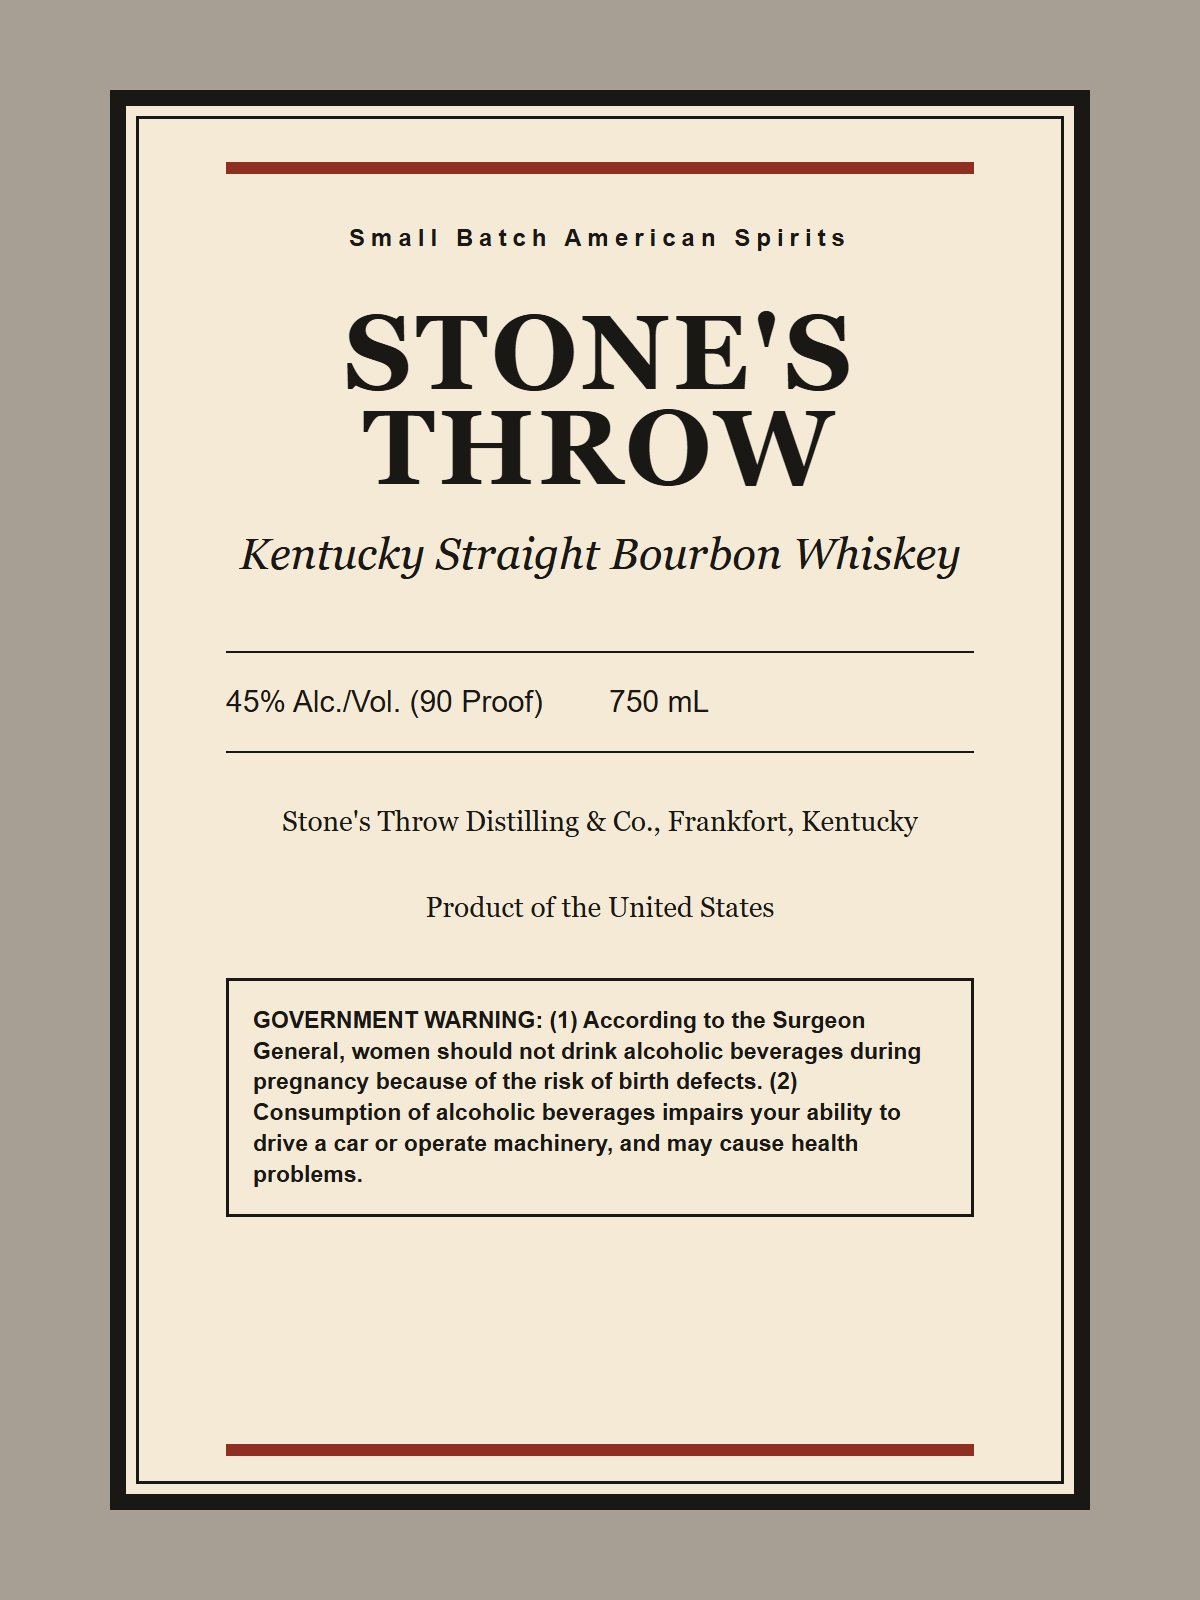
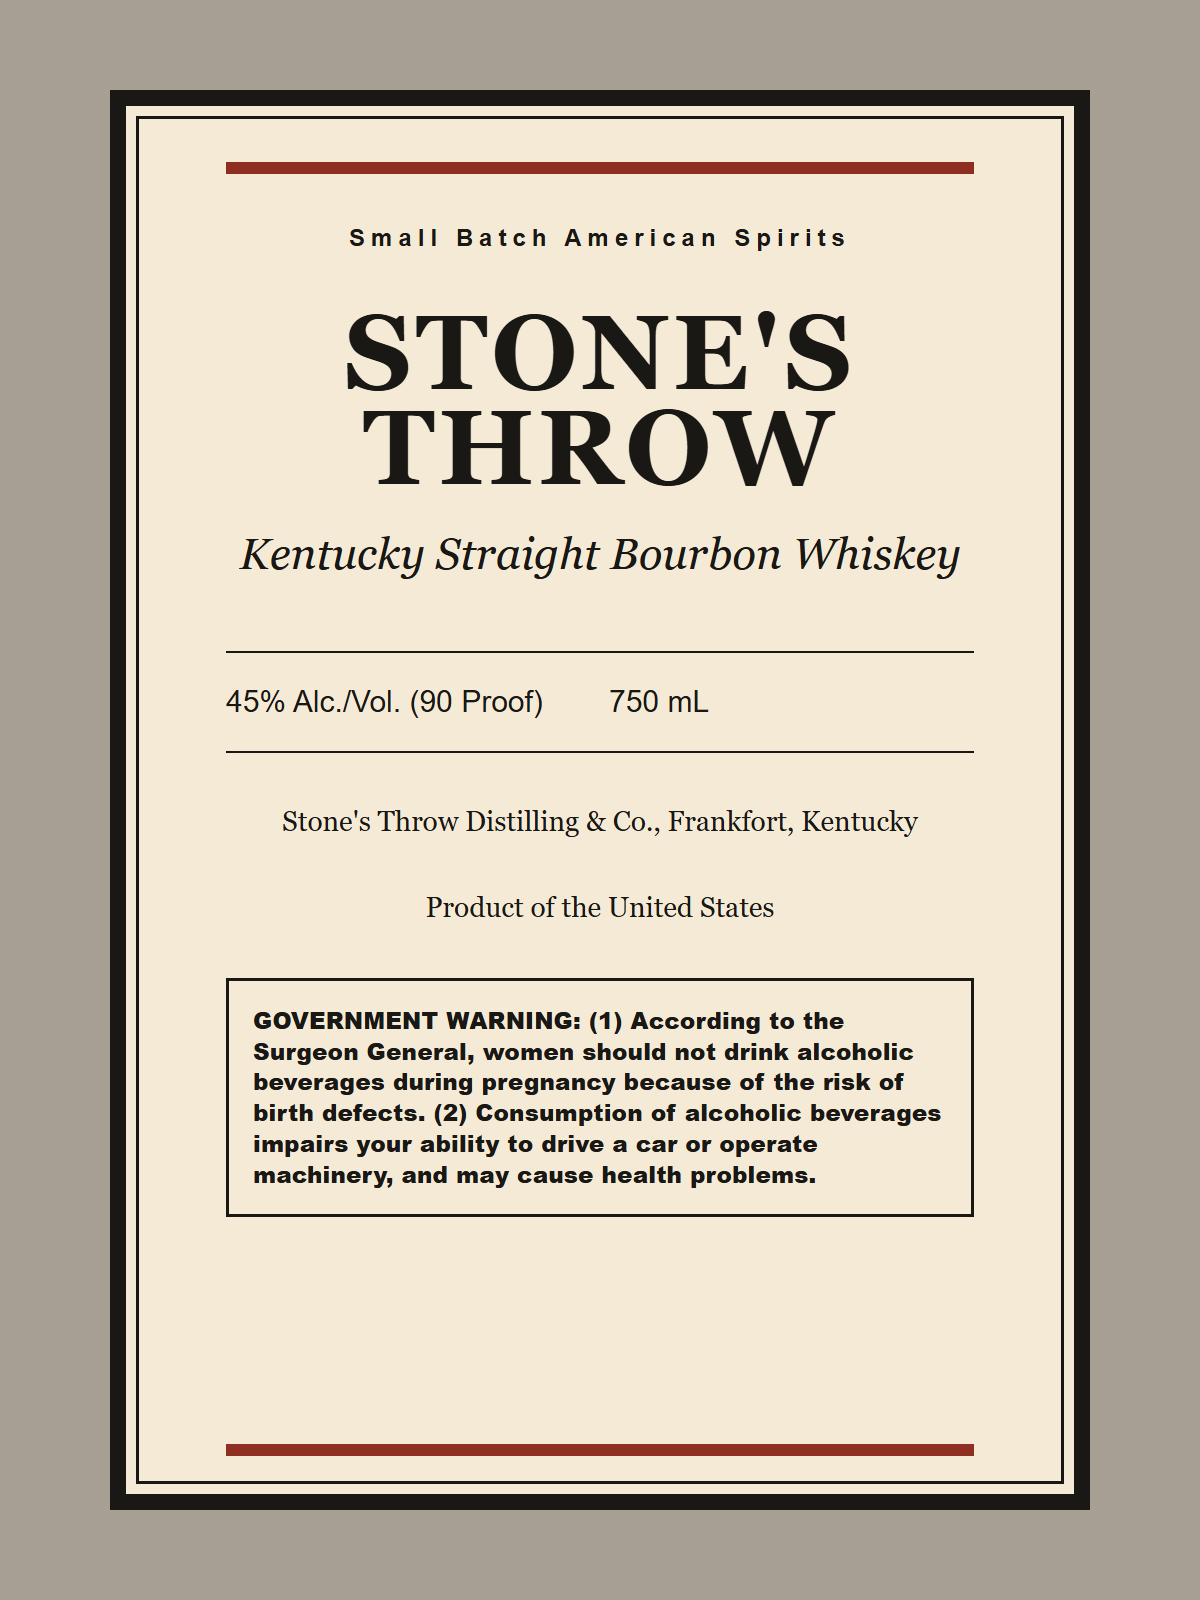
fix: strengthen bold warning fixture

Changed region(s): [[0.2158, 0.625, 0.7708, 0.75]]

diff --git a/lib/vision.ts b/lib/vision.ts
@@ -163,7 +163,7 @@ export async function extractLabel(
           {
             type: "text",
             text:
-              "Transcribe and observe this alcohol-label image. The warning transcription must be a literal visual reading, including lower- versus uppercase letters and every punctuation mark; do not apply normal English capitalization. Independently observe whether the first two warning words are uppercase, whether those words are bold, and whether the rest of the warning appears bold. Use null when a value is not visible; do not assess legal compliance.",
+              "Transcribe and observe this alcohol-label image. The warning transcription must be a literal visual reading, including lower- versus uppercase letters and every punctuation mark; do not apply normal English capitalization. Independently inspect font weight in the warning: report whether the first two words are bold and, separately, whether any of the remaining warning text appears bold. Do not infer the remainder style from the prefix; assess its visible weight directly. Use null when a value is not visible; do not assess legal compliance.",
           },
         ],
       },

diff --git a/fixtures/label-template.html b/fixtures/label-template.html
@@ -49,7 +49,7 @@
       .producer { font-size: 28px; line-height: 1.3; margin: 50px 0 44px; text-align: center; }
       .warning { border: 3px solid var(--ink); font-family: Arial, sans-serif; font-size: 23px; line-height: 1.34; margin-top: 52px; padding: 24px; }
       .warning-prefix { font-weight: 700; }
-      .warning.all-bold { font-weight: 700; }
+      .warning.all-bold { font-family: "Arial Black", Arial, sans-serif; font-weight: 900; letter-spacing: .01em; }
       .warning.all-bold .warning-prefix { font-weight: inherit; }
       .warning.missing { display: none; }
       .glare { display: none; }
